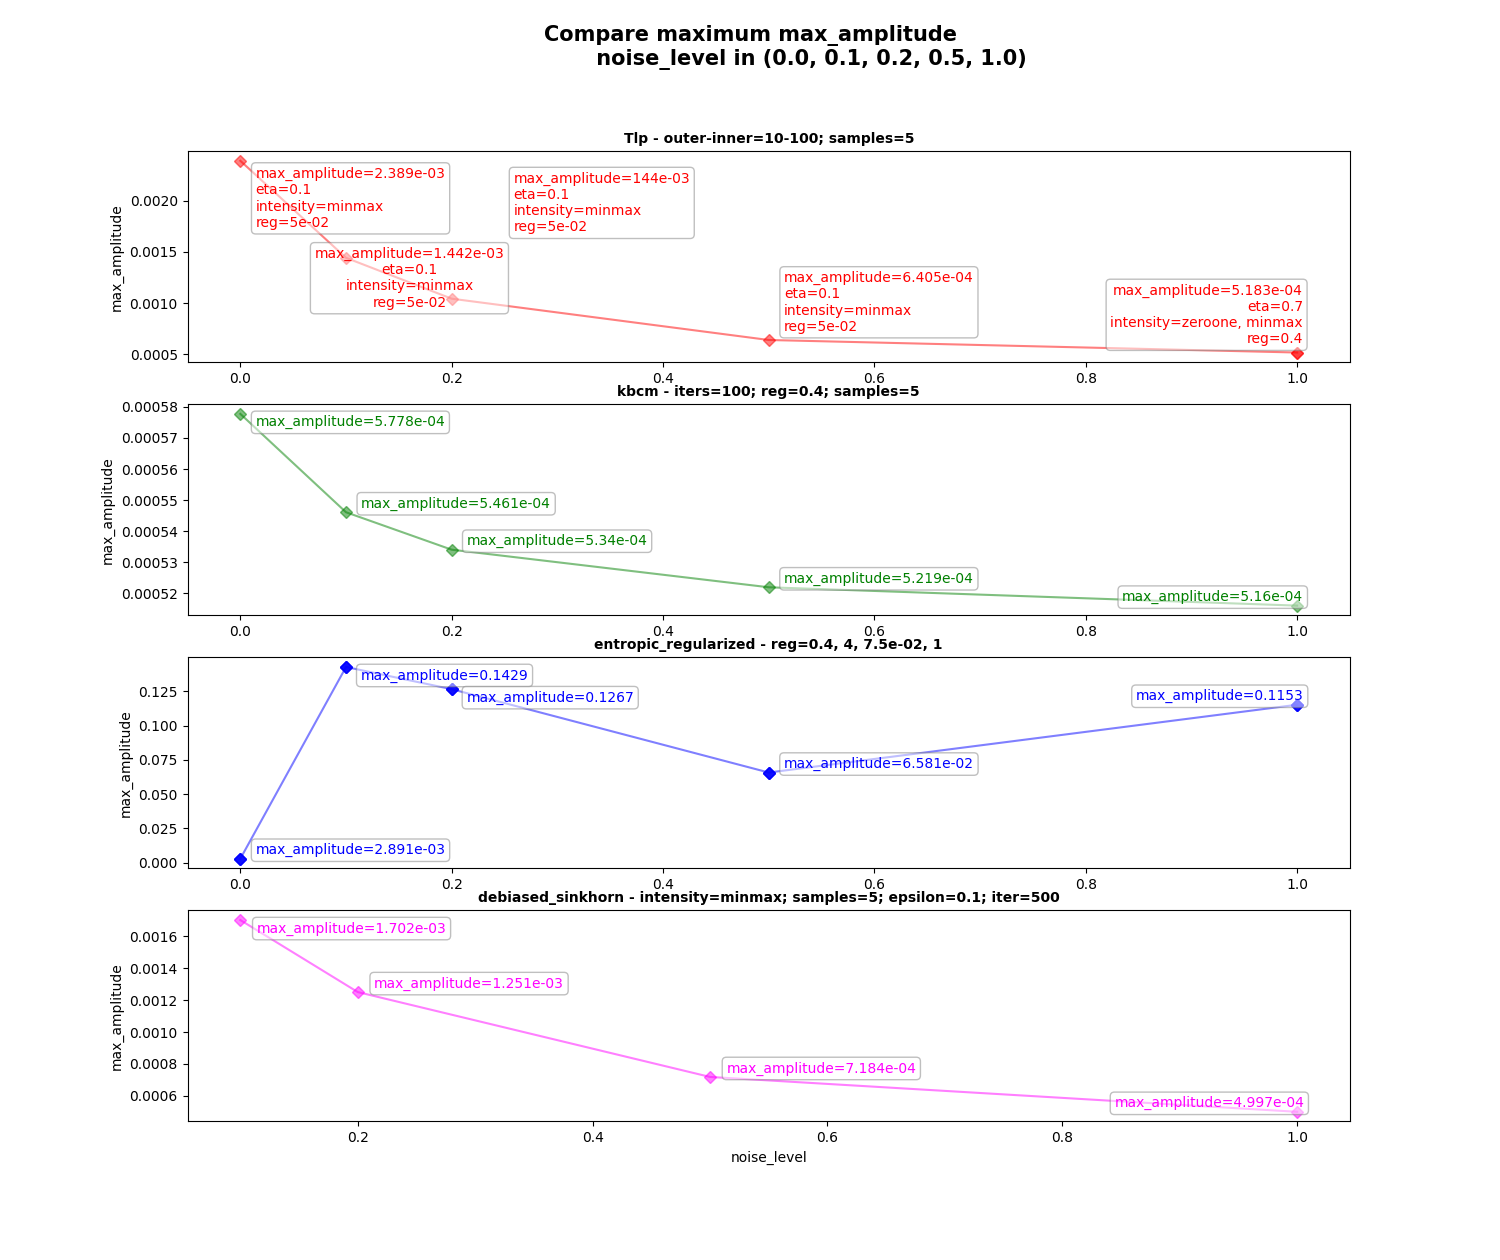
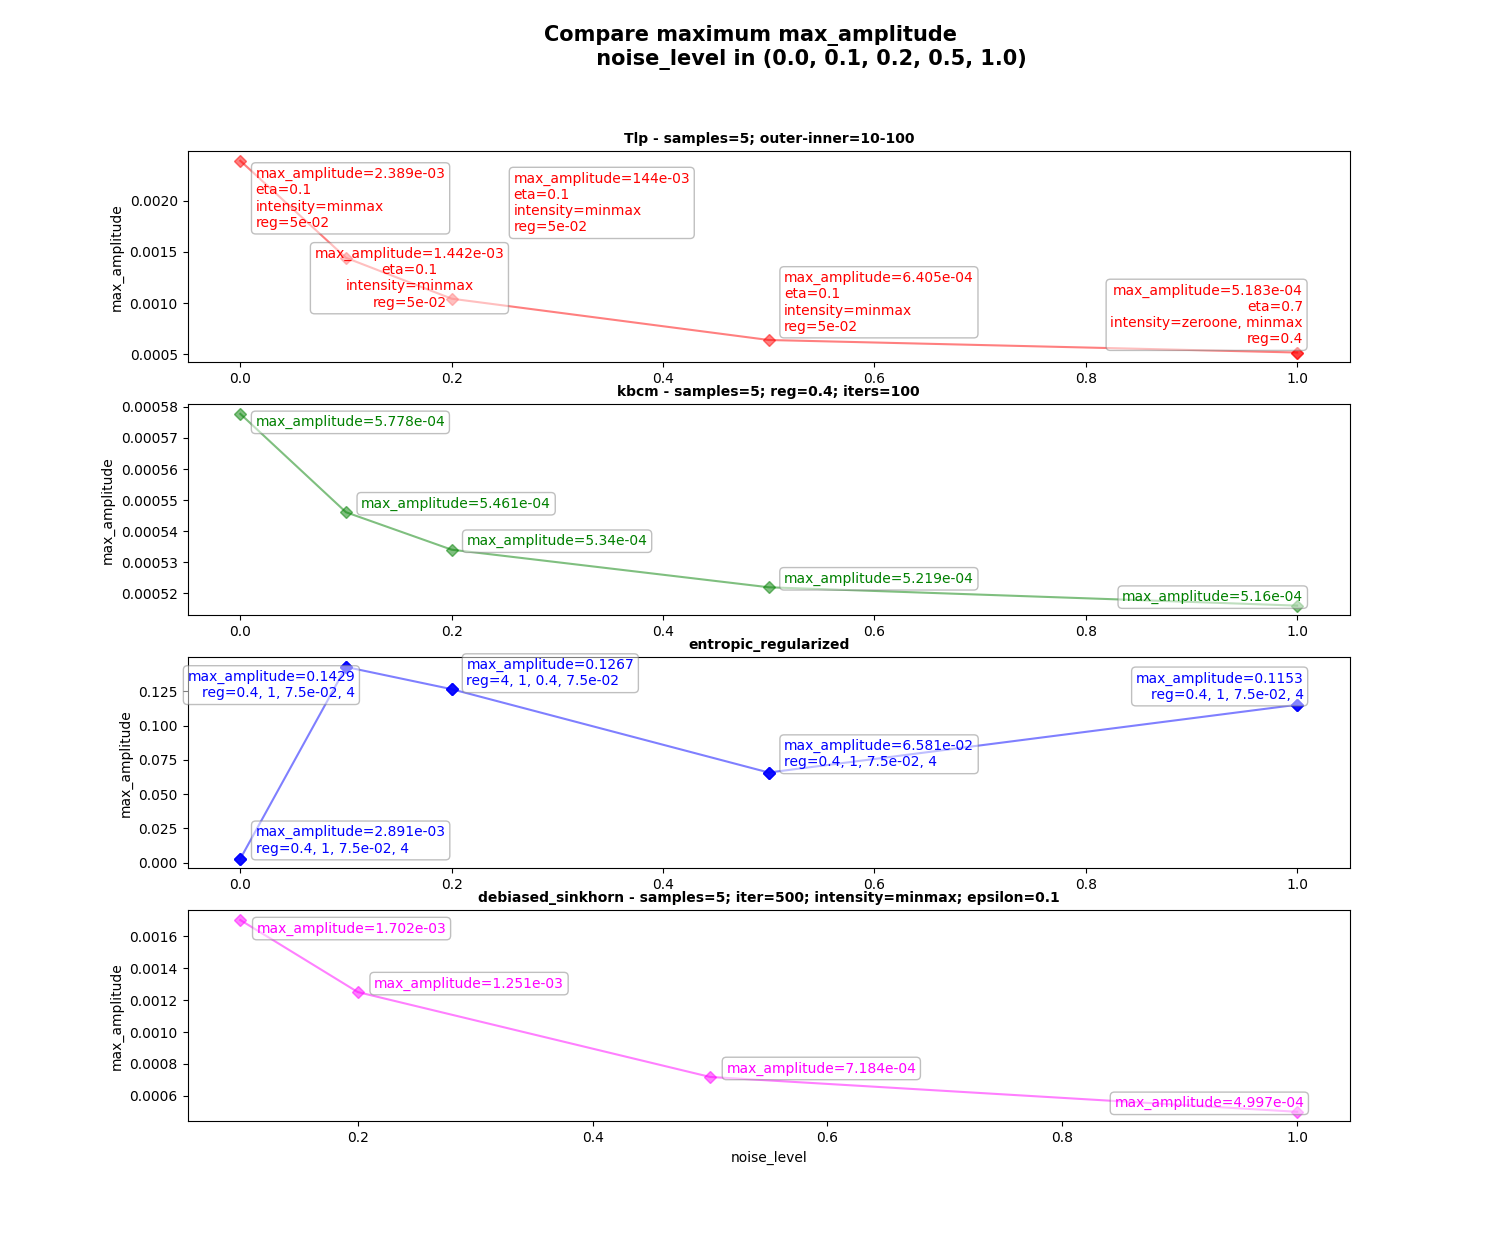
comparison criteria update - fix files' name parsing.

diff --git a/deliverable_clean/comparison_criteria/compare.py b/deliverable_clean/comparison_criteria/compare.py
@@ -12,6 +12,7 @@ import standardize
 from adjustText import adjust_text
 from math import log10, floor
 
+
 def get_label(df) :
     """
     Get the description of each point based on the data frame.
@@ -306,18 +307,20 @@ def make_plot(df,
 
     df = df[df['noise_level'] != 0.05]
 
-    sub_df = pd.DataFrame(columns=["noise_level",
-                                   "algorithm", 
-                                   variable])
-
     to_be_droped = list({"barycenter_dist", 
                          "above-thld_pixels", 
                          "above-thld_pixels_std", 
                          "max_amplitude"} - {variable})
 
-    for noise_lvl in df["noise_level"].unique() :
-        sub_noise_df = df[df["noise_level"] == noise_lvl]
+    df = df.drop(to_be_droped, axis=1)
 
+    sub_df = pd.DataFrame(columns=["noise_level",
+                                   "algorithm", 
+                                   variable])
+
+
+    for noise_lvl in df["noise_level"].unique() :
+        sub_noise_df = df[df["noise_level"] == noise_lvl]        
         for algo in sub_noise_df["algorithm"].unique() :
             sub_algo_noise_df = sub_noise_df[sub_noise_df["algorithm"] == algo]
 
@@ -326,16 +329,17 @@ def make_plot(df,
             elif min_or_max == "max" :
                 maxminimum = sub_algo_noise_df.max()[variable]
 
-            sub_df = sub_df.append(df.loc[df[variable] == maxminimum].drop(to_be_droped, axis=1))
+            sub_df = sub_df.append(sub_algo_noise_df.loc[sub_algo_noise_df[variable] == maxminimum])
 
     sub_df.drop_duplicates(inplace=True)
-    sub_df.sort_values(by=["noise_level"],inplace=True)
+    sub_df.sort_values(by=["noise_level"], inplace=True)
 
     nb_algo = len(sub_df["algorithm"].unique())
 
     plt.figure(1,figsize=(15,1+2.9*nb_algo))
     colors = ["red", "green", "blue", "magenta", "orange", "cyan"]
     i=0
+
     for algo in sub_df["algorithm"].unique() :
         plt.subplot(nb_algo,1,i+1)
         sub_algo_variable_df = pd.DataFrame(sub_df[sub_df['algorithm'] == algo])
@@ -394,16 +398,26 @@ def make_plot(df,
         plt.show()
     plt.close()
 
-def compare_all(re_collect=True):
+
+def compare_all(re_collect=True,
+                show_plot=False,
+                max_ampl=True, 
+                obv_thl_pix_std=True, 
+                obv_thl_pix=True, 
+                bary_dist=True):
     """
     Run all the comparisons.
     """
     if re_collect:
         collect("../test_algos/results")
-    compare_max_amplitude(show_plot=False)
-    compare_obv_thr_pixels_std(show_plot=False)
-    compare_obv_thr_pixels(show_plot=False)
-    compare_barycenter_dist(show_plot=False)
+    if max_ampl :
+        compare_max_amplitude(show_plot=show_plot)
+    if obv_thl_pix_std :
+        compare_obv_thr_pixels_std(show_plot=show_plot)
+    if obv_thl_pix :
+        compare_obv_thr_pixels(show_plot=show_plot)
+    if bary_dist :
+        compare_barycenter_dist(show_plot=show_plot)
 
 
 
